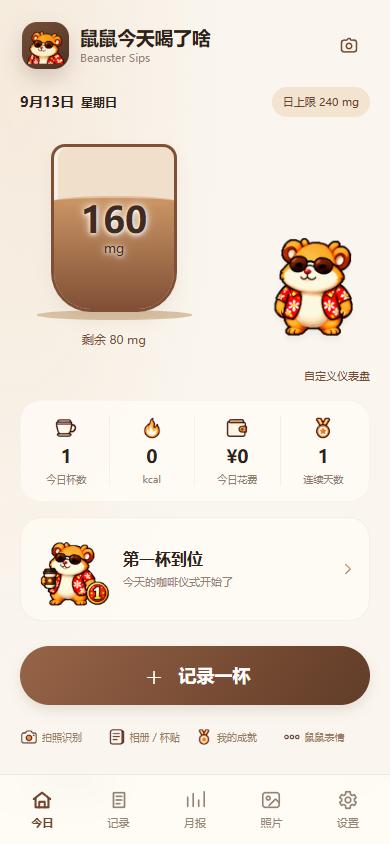
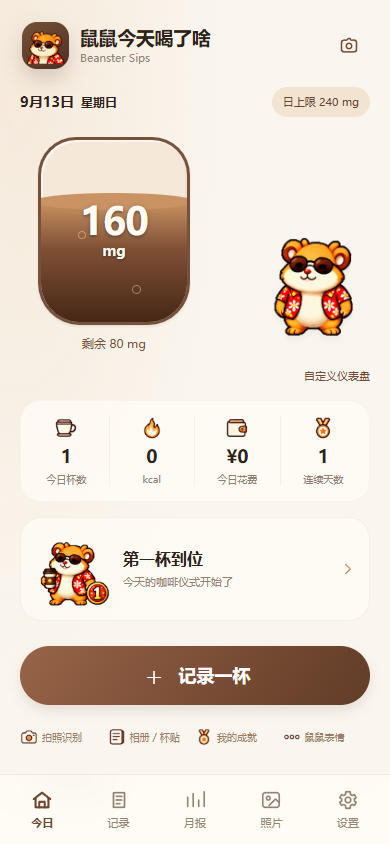
Match coffee dashboard reference with rising bubble animation

Changed region(s): [[0.0923, 0.154, 0.4923, 0.4313]]

diff --git a/app_v5.js b/app_v5.js
@@ -175,7 +175,7 @@ function metabolismReportHtml(rs,key){
 function renderAnalysis(){let ref=monthRef(),year=ref.getFullYear(),month=ref.getMonth(),mr=monthRecords(ref).sort((a,b)=>a.ts-b.ts),prevRef=new Date(year,month-1,1),prevAll=monthRecords(prevRef),daysInMonth=new Date(year,month+1,0).getDate(),today=new Date(),elapsedDays=analysisMonthOffset===0?today.getDate():daysInMonth,compareDays=elapsedDays,prev=prevAll.filter(r=>new Date(r.ts).getDate()<=compareDays),firstOffset=(new Date(year,month,1).getDay()+6)%7,monthName=`${year} 年 ${month+1} 月`;let cups=mr.length,caf=sum(mr,'caffeine'),spend=sum(mr,'price'),activeDays=uniqueDays(mr).length,overDays=uniqueDays(mr).filter(k=>sum(dayRecords(k),'caffeine')>settings.dailyLimit).length,avg=(cups/Math.max(1,elapsedDays)),delta=cups-prev.length;let typeCount={},brandCount={};mr.forEach(r=>{typeCount[r.type]=(typeCount[r.type]||0)+1;if(r.brand)brandCount[r.brand]=(brandCount[r.brand]||0)+1});let fav=Object.entries(typeCount).sort((a,b)=>b[1]-a[1])[0]?.[0]||'—',favBrand=Object.entries(brandCount).sort((a,b)=>b[1]-a[1])[0]?.[0]||'—';let cells=Array.from({length:firstOffset},()=>'<span class="month-blank"></span>');let todayKey=localKey(new Date());for(let d=1;d<=daysInMonth;d++){let date=new Date(year,month,d),key=localKey(date),rs=dayRecords(key),n=rs.length,dcaf=sum(rs,'caffeine'),over=dcaf>settings.dailyLimit,sel=(selectedAnalysisDay||((analysisMonthOffset===0)?todayKey:''))===key;cells.push(`<button class="month-day ${n?'has-cups':''} ${over?'over':''} ${sel?'selected':''}" onclick="selectAnalysisDay('${key}')"><span class="day-num">${d}</span><span class="month-stamp-wrap">${stampMarkup(n)||'<span class="no-stamp"></span>'}</span></button>`)}let fallback=analysisMonthOffset===0?todayKey:(mr.length?localKey(new Date(mr[mr.length-1].ts)):`${year}-${pad(month+1)}-01`),key=selectedAnalysisDay||fallback,selected=dayRecords(key).sort((a,b)=>a.ts-b.ts),selectedCaf=sum(selected,'caffeine'),mouse=hamsterState(selected.length,selectedCaf),selectedDate=new Date(key+'T12:00:00'),dayLabel=`${selectedDate.getMonth()+1}月${selectedDate.getDate()}日`;let compare=delta===0?(analysisMonthOffset===0?'和上月同期一样':'和上月一样'):delta>0?`比上月${analysisMonthOffset===0?'同期':''}多 ${delta} 杯`:`比上月${analysisMonthOffset===0?'同期':''}少 ${Math.abs(delta)} 杯`;
  $('analysisContent').innerHTML=`<div class="month-nav"><button onclick="setAnalysisMonth(-1)">‹</button><b>${monthName}</b><button onclick="setAnalysisMonth(1)" ${analysisMonthOffset>=0?'disabled':''}>›</button></div><div class="month-stats"><div class="month-stat primary-stat"><span>本月喝了</span><b>${cups}</b><small>杯 · ${compare}</small></div><div class="month-stat"><span>平均每天</span><b>${avg.toFixed(1)}</b><small>杯</small></div><div class="month-stat"><span>咖啡因</span><b>${Math.round(caf)}</b><small>mg</small></div><div class="month-stat"><span>本月花费</span><b>${money(spend)}</b><small>${activeDays} 天有记录</small></div></div><div class="section-title">咖啡月历 <span>杯数用印章记录</span></div><div class="card month-board"><div class="weekday-row"><span>一</span><span>二</span><span>三</span><span>四</span><span>五</span><span>六</span><span>日</span></div><div class="month-grid">${cells.join('')}</div></div><div class="card hamster-day-scene ${mouse.cls}"><div class="scene-top">${mascotSprite(mouse,true)}<div class="scene-copy"><span>${dayLabel}</span><b>${mouse.title}</b><small>${selected.length?`${selected.length} 杯 · ${Math.round(selectedCaf)} mg`:'没有咖啡记录'}</small></div><div class="scene-cups">${stampMarkup(selected.length,true)||cupsMarkup(selected.length)}</div></div>${selected.length?`<div class="day-records">${selected.map(r=>`<button onclick="editRecord('${r.id}')"><span>${pad(new Date(r.ts).getHours())}:${pad(new Date(r.ts).getMinutes())}</span><b>${esc(r.type)}</b><em>${Math.round(r.caffeine||0)} mg</em></button>`).join('')}</div>`:'<div class="empty mini-empty">今天还没有留下印章。</div>'}</div>${metabolismReportHtml(selected,key)}<div class="section-title">本月咖啡故事 <span>这个月的回顾</span></div>${monthlyStoryHtml(mr,ref)}<div class="section-title">我的咖啡画像 <span>你的常喝习惯</span></div>${coffeeProfileHtml()}<div class="section-title">常去的店 <span>按记录次数</span></div>${storeStatsHtml()}<div class="section-title">咖啡护照 <span>慢慢收集</span></div>${passportHtml()}<div class="section-title">这个月 <span>本月小结</span></div><div class="card month-summary"><div><span>最常喝</span><b>${esc(fav)}</b></div><div><span>最常选品牌</span><b>${esc(favBrand)}</b></div><div><span>超量天数</span><b>${overDays} 天</b></div><div><span>有咖啡的日子</span><b>${activeDays} 天</b></div></div>`}
 async function renderPhotos(){let rs=records.filter(r=>r.photoId||r.photoPreview||r.nativePhotoPath).sort((a,b)=>b.ts-a.ts);$('photoContent').innerHTML=rs.length?`<div class="row between" style="margin:3px 4px 12px"><div><b>${rs.length} 次照片打卡</b><div class="muted">点开查看原图</div></div><span class="pill green">照片墙</span></div><div class="photos">${rs.map(r=>{let key=r.photoId||r.id,src=nativeFileUrl(r.nativePhotoPath)||r.photoPreview||'';return `<div class="photo-tile" onclick="viewPhoto('${key}','${esc(r.type).replace(/'/g,"&#39;")} · ${fmtTs(r.ts)}')"><img src="${esc(src)}" data-photo="${esc(key)}"><span>${esc(r.type)} · ${fmtTs(r.ts)}</span></div>`}).join('')}</div>`:'<div class="card empty">还没有照片。记录咖啡时可以打开系统相机，也可以从系统相册选择。</div>';await hydratePhotos($('photoContent'))}
-function renderSettings(){let health=dataHealthText(),tpl=templates.length?templates.map(t=>`<div class="template-row"><div><b>${esc(t.name)}</b><span>${esc(t.productName||t.brand||t.type)} · ${t.productName&&t.type?esc(t.type)+' · ':''}${t.size}ml${t.caf?` · ${Math.round(t.caf)} mg`:''}${t.price?` · ${money(t.price)}`:''}</span></div><button onclick="deleteTemplate('${t.id}')">删除</button></div>`).join(''):'<div class="empty mini-empty">还没有保存常喝咖啡。记录时可以把当前这杯保存下来。</div>';$('settingsContent').innerHTML=`<div class="section-title">日常设置</div><div class="card"><div class="setting"><div><b>每日咖啡因上限</b></div><input id="sLimit" type="number" value="${settings.dailyLimit}" onchange="saveSettings()"></div><div class="setting"><div><b>月度咖啡预算</b></div><input id="sBudget" type="number" value="${settings.monthlyBudget}" onchange="saveSettings()"></div><div class="setting"><div><b>目标入睡时间</b><div class="tiny">你通常准备睡觉的时间</div></div><input id="sSleep" type="time" value="${settings.sleepTime||'23:30'}" onchange="saveSettings()"></div><div class="setting"><div><b>咖啡因半衰期</b><div class="tiny">不确定可以保持 5 小时</div></div><input id="sHalf" type="number" min="1.5" max="12" step="0.5" value="${settings.caffeineHalfLife||5}" onchange="saveSettings()"></div><div class="setting"><div><b>睡前目标残留</b><div class="tiny">睡前希望咖啡因降到多少</div></div><input id="sResidual" type="number" min="0" max="200" step="5" value="${settings.sleepResidualTarget??50}" onchange="saveSettings()"></div><div class="setting"><div><b>建议提前停止</b></div><input id="sCutoff" type="number" min="4" max="12" step="0.5" value="${settings.cutoffHours||9}" onchange="saveSettings()"></div><div class="setting"><div><b>晚间提醒时间</b></div><input id="sLate" type="number" min="0" max="23" value="${settings.lateHour}" onchange="saveSettings()"></div><div class="setting"><div><b>默认容量</b></div><input id="sSize" type="number" value="${settings.defaultSize}" onchange="saveSettings()"></div><div class="setting"><div><b>照片质量</b><div class="tiny">保留原图会占用更多空间</div></div><select id="sPhotoQuality" onchange="saveSettings()"><option value="original" ${settings.photoQuality!=='compressed'?'selected':''}>保留原图</option><option value="compressed" ${settings.photoQuality==='compressed'?'selected':''}>节省空间</option></select></div><div class="setting"><div><b>咖啡玩家模式</b><div class="tiny">记录豆子、处理法和粉水比</div></div><select id="sPro" onchange="saveSettings()"><option value="0" ${!settings.coffeeProMode?'selected':''}>关闭</option><option value="1" ${settings.coffeeProMode?'selected':''}>开启</option></select></div><div class="setting"><div><b>系统通知</b></div><select id="sNotif" onchange="saveSettings()"><option value="1" ${settings.systemNotifications?'selected':''}>开启</option><option value="0" ${!settings.systemNotifications?'selected':''}>关闭</option></select></div><div class="setting"><div><b>货币符号</b></div><input id="sCurr" value="${esc(settings.currency)}" onchange="saveSettings()"></div></div><div class="section-title">我的咖啡 <span>${templates.length} 个</span></div><div class="card template-settings">${tpl}</div><div class="section-title">备份与恢复</div><div class="card backup-card"><button class="primary" onclick="exportFullBackup('original')">保存完整备份</button><p>记录、设置和照片一起保存。</p><button class="ghost" style="width:100%" onclick="exportFullBackup('compact')">保存轻量备份</button><div class="backup-divider"></div><label class="ghost backup-import">导入备份<input id="restoreFile" type="file" accept=".beanster,.json,application/json,application/octet-stream" onchange="restoreBackup(this.files[0])"></label>${localStorage.getItem(SNAPKEY)?'<div style="height:8px"></div><button class="ghost" style="width:100%" onclick="undoLastImport()">撤销上次导入</button>':''}<div class="backup-divider"></div><button class="ghost" style="width:100%" onclick="exportBackup()">导出记录 JSON</button><div style="height:8px"></div><button class="ghost" style="width:100%" onclick="exportCsv()">导出表格</button></div><div class="section-title">最近恢复点</div><div class="card">${restorePointsHtml()}</div><div class="section-title">记录与照片</div><div class="card data-health ${health.ok?'ok':'warn'}"><b>${health.ok?'✓ 状态正常':'有内容需要确认'}</b><span>${health.text}</span><small>${health.detail}</small><div style="height:10px"></div><div class="row"><button class="ghost grow" onclick="showDataCheck()">检查记录</button><button class="ghost grow" onclick="checkPhotos()">检查照片</button></div></div><div class="section-title">关于</div><div class="card"><div class="about"><div class="logo"><img src="icon.png" alt="鼠鼠今天喝了啥"></div><div><b>鼠鼠今天喝了啥</b><span>Beanster Sips · V18.3</span></div></div></div>`}
+function renderSettings(){let health=dataHealthText(),tpl=templates.length?templates.map(t=>`<div class="template-row"><div><b>${esc(t.name)}</b><span>${esc(t.productName||t.brand||t.type)} · ${t.productName&&t.type?esc(t.type)+' · ':''}${t.size}ml${t.caf?` · ${Math.round(t.caf)} mg`:''}${t.price?` · ${money(t.price)}`:''}</span></div><button onclick="deleteTemplate('${t.id}')">删除</button></div>`).join(''):'<div class="empty mini-empty">还没有保存常喝咖啡。记录时可以把当前这杯保存下来。</div>';$('settingsContent').innerHTML=`<div class="section-title">日常设置</div><div class="card"><div class="setting"><div><b>每日咖啡因上限</b></div><input id="sLimit" type="number" value="${settings.dailyLimit}" onchange="saveSettings()"></div><div class="setting"><div><b>月度咖啡预算</b></div><input id="sBudget" type="number" value="${settings.monthlyBudget}" onchange="saveSettings()"></div><div class="setting"><div><b>目标入睡时间</b><div class="tiny">你通常准备睡觉的时间</div></div><input id="sSleep" type="time" value="${settings.sleepTime||'23:30'}" onchange="saveSettings()"></div><div class="setting"><div><b>咖啡因半衰期</b><div class="tiny">不确定可以保持 5 小时</div></div><input id="sHalf" type="number" min="1.5" max="12" step="0.5" value="${settings.caffeineHalfLife||5}" onchange="saveSettings()"></div><div class="setting"><div><b>睡前目标残留</b><div class="tiny">睡前希望咖啡因降到多少</div></div><input id="sResidual" type="number" min="0" max="200" step="5" value="${settings.sleepResidualTarget??50}" onchange="saveSettings()"></div><div class="setting"><div><b>建议提前停止</b></div><input id="sCutoff" type="number" min="4" max="12" step="0.5" value="${settings.cutoffHours||9}" onchange="saveSettings()"></div><div class="setting"><div><b>晚间提醒时间</b></div><input id="sLate" type="number" min="0" max="23" value="${settings.lateHour}" onchange="saveSettings()"></div><div class="setting"><div><b>默认容量</b></div><input id="sSize" type="number" value="${settings.defaultSize}" onchange="saveSettings()"></div><div class="setting"><div><b>照片质量</b><div class="tiny">保留原图会占用更多空间</div></div><select id="sPhotoQuality" onchange="saveSettings()"><option value="original" ${settings.photoQuality!=='compressed'?'selected':''}>保留原图</option><option value="compressed" ${settings.photoQuality==='compressed'?'selected':''}>节省空间</option></select></div><div class="setting"><div><b>咖啡玩家模式</b><div class="tiny">记录豆子、处理法和粉水比</div></div><select id="sPro" onchange="saveSettings()"><option value="0" ${!settings.coffeeProMode?'selected':''}>关闭</option><option value="1" ${settings.coffeeProMode?'selected':''}>开启</option></select></div><div class="setting"><div><b>系统通知</b></div><select id="sNotif" onchange="saveSettings()"><option value="1" ${settings.systemNotifications?'selected':''}>开启</option><option value="0" ${!settings.systemNotifications?'selected':''}>关闭</option></select></div><div class="setting"><div><b>货币符号</b></div><input id="sCurr" value="${esc(settings.currency)}" onchange="saveSettings()"></div></div><div class="section-title">我的咖啡 <span>${templates.length} 个</span></div><div class="card template-settings">${tpl}</div><div class="section-title">备份与恢复</div><div class="card backup-card"><button class="primary" onclick="exportFullBackup('original')">保存完整备份</button><p>记录、设置和照片一起保存。</p><button class="ghost" style="width:100%" onclick="exportFullBackup('compact')">保存轻量备份</button><div class="backup-divider"></div><label class="ghost backup-import">导入备份<input id="restoreFile" type="file" accept=".beanster,.json,application/json,application/octet-stream" onchange="restoreBackup(this.files[0])"></label>${localStorage.getItem(SNAPKEY)?'<div style="height:8px"></div><button class="ghost" style="width:100%" onclick="undoLastImport()">撤销上次导入</button>':''}<div class="backup-divider"></div><button class="ghost" style="width:100%" onclick="exportBackup()">导出记录 JSON</button><div style="height:8px"></div><button class="ghost" style="width:100%" onclick="exportCsv()">导出表格</button></div><div class="section-title">最近恢复点</div><div class="card">${restorePointsHtml()}</div><div class="section-title">记录与照片</div><div class="card data-health ${health.ok?'ok':'warn'}"><b>${health.ok?'✓ 状态正常':'有内容需要确认'}</b><span>${health.text}</span><small>${health.detail}</small><div style="height:10px"></div><div class="row"><button class="ghost grow" onclick="showDataCheck()">检查记录</button><button class="ghost grow" onclick="checkPhotos()">检查照片</button></div></div><div class="section-title">关于</div><div class="card"><div class="about"><div class="logo"><img src="icon.png" alt="鼠鼠今天喝了啥"></div><div><b>鼠鼠今天喝了啥</b><span>Beanster Sips · V18.3.1</span></div></div></div>`}
 function renderAll(){renderToday();renderRecords();renderAnalysis();renderPhotos();if($('settings').classList.contains('active'))renderSettings()}
 function openAdd(){let n=new Date();editingId='';draftExistingPhotoId='';$('modalTitle').textContent='记录一杯咖啡';$('modalSub').textContent='拍照、相册或快速添加';$('saveBtnText').textContent='保存这杯咖啡';$('fDate').value=localKey(n);$('fTime').value=pad(n.getHours())+':'+pad(n.getMinutes());$('fProductName').value='';$('fSize').value=settings.defaultSize;$('fPrice').value=0;$('fBrand').value='';$('fStore').value='';$('fNote').value='';$('fTemp').value='热';$('fShots').value=2;if($('fScene'))$('fScene').value='';for(let id of ['fBeanOrigin','fProcess','fRoast','fBrewRatio'])if($(id))$(id).value='';$('proFields')?.classList.toggle('show',!!settings.coffeeProMode);draftPhoto=null;draftSourceAttachment=null;draftSourceKind='';draftKeepSource=false;draftSmartKind='';draftReadKey='';draftReadText='';draftEstimated=false;draftConfidence=0;draftCafLow=0;draftCafHigh=0;draftCafSource='';draftProductSource='';currentRating=4;renderRating();$('fCamera').value='';$('fGallery').value='';$('photoBox').classList.remove('has-photo');$('photoBox').innerHTML='<div class="photo-placeholder">'+ICONS.image+'<b>打开系统相机，或从系统相册选择</b><div class="tiny" style="margin-top:4px">也可以从相册选择</div></div>';$('recognition').classList.remove('show');$('recognition').innerHTML='';$('addModal').classList.add('show');$('fType').value='美式';applyCatalog('美式',true);renderQuickPresets();renderWhatIf()}
 async function editRecord(id){let r=records.find(x=>x.id===id);if(!r)return;openAdd();editingId=id;draftExistingPhotoId=r.photoId||'';$('modalTitle').textContent='修改咖啡记录';$('modalSub').textContent='修改这杯咖啡';$('saveBtnText').textContent='保存修改';let d=new Date(r.ts);$('fDate').value=localKey(d);$('fTime').value=pad(d.getHours())+':'+pad(d.getMinutes());$('fProductName').value=r.productName||'';$('fType').value=r.type in CATALOG?r.type:canonicalTypeForName(r.productName||r.type,'美式');$('fTemp').value=r.temp||'热';$('fSize').value=r.size||settings.defaultSize;$('fShots').value=r.shots??(CATALOG[$('fType').value]?.shots||0);$('fPrice').value=r.price||0;$('fCaf').value=r.caffeine||0;$('fCal').value=r.calories||0;$('fBrand').value=r.brand||'';$('fStore').value=r.store||'';$('fNote').value=r.note||'';if($('fScene'))$('fScene').value=r.scene||'';if($('fBeanOrigin'))$('fBeanOrigin').value=r.beanOrigin||'';if($('fProcess'))$('fProcess').value=r.process||'';if($('fRoast'))$('fRoast').value=r.roast||'';if($('fBrewRatio'))$('fBrewRatio').value=r.brewRatio||'';currentRating=r.rating||0;draftEstimated=!!r.estimated;draftConfidence=Number(r.confidence)||0;draftCafLow=Number(r.cafLow)||0;draftCafHigh=Number(r.cafHigh)||0;draftCafSource=r.cafSource||'';draftProductSource=r.productSource||'';draftSourceKind=r.infoSourceKind||'';draftKeepSource=!!r.sourceId;draftSourceAttachment=null;renderRating();renderWhatIf();if(r.photoId||r.photoPreview||r.nativePhotoPath){try{let p=r.photoId?await getPhoto(r.photoId):'',src=nativeFileUrl(r.nativePhotoPath)||photoFullUrl(p)||r.photoPreview||'';if(src){$('photoBox').classList.add('has-photo');$('photoBox').innerHTML=`<img src="${src}" alt="咖啡照片">`}}catch(e){if(r.photoPreview){$('photoBox').classList.add('has-photo');$('photoBox').innerHTML=`<img src="${r.photoPreview}" alt="咖啡照片">`}}}$('recognition').innerHTML=`<div class="rec-title">正在编辑</div><div class="estimate-note">换图片后会重新读取。</div>${r.sourceId?`<div class="order-actions"><button onclick="viewInfoSource('${r.id}')">查看${sourceLabel(r.infoSourceKind)||'信息图片'}</button></div>`:''}`;$('recognition').classList.add('show')}
@@ -366,14 +366,14 @@ async function delRecord(id){if(!confirm('删除这条咖啡记录？'))return;l
 function saveSettings(){settings.dailyLimit=Math.max(1,Number($('sLimit').value)||400);settings.monthlyBudget=Math.max(1,Number($('sBudget').value)||500);settings.lateHour=clamp(Number($('sLate').value)||16,0,23);settings.sleepTime=$('sSleep')?.value||'23:30';settings.caffeineHalfLife=clamp(Number($('sHalf')?.value)||5,1.5,12);settings.sleepResidualTarget=clamp(Number($('sResidual')?.value)||0,0,200);settings.cutoffHours=clamp(Number($('sCutoff')?.value)||9,4,12);settings.defaultSize=Math.max(30,Number($('sSize').value)||350);settings.estimateStrength=$('sStrength')?clamp(Number($('sStrength').value)||1,.5,2):(settings.estimateStrength||1);settings.systemNotifications=$('sNotif').value==='1';settings.currency=$('sCurr').value||'¥';settings.photoQuality=$('sPhotoQuality')?.value==='compressed'?'compressed':'original';settings.coffeeProMode=$('sPro')?.value==='1';persist();$('proFields')?.classList.toggle('show',!!settings.coffeeProMode);renderAll();notify('设置已保存')}
 function csvEsc(v){let s=String(v??'');return /[",\n]/.test(s)?'"'+s.replace(/"/g,'""')+'"':s}
 function exportFile(data,mime,name){location.href=`coffeelog://export?mime=${encodeURIComponent(mime)}&name=${encodeURIComponent(name)}&data=${encodeURIComponent(data)}`}
-function exportCsv(){let cols=['日期','时间','饮品名称','咖啡类型','冷热','场景','shot数','咖啡因_mg','咖啡因下限_mg','咖啡因上限_mg','估算依据','热量_kcal','金额','货币','容量_ml','品牌','门店','评分','豆子_产地','处理法','烘焙度','粉水比','备注','有照片'];let rows=records.slice().sort((a,b)=>a.ts-b.ts).map(r=>{let d=new Date(r.ts);return [localKey(d),pad(d.getHours())+':'+pad(d.getMinutes()),r.productName||'',r.type,r.temp||'',r.scene||'',r.shots??'',r.caffeine,r.cafLow||'',r.cafHigh||'',r.cafSource||'',r.calories||0,r.price,settings.currency,r.size||'',r.brand||'',r.store||'',r.rating||'',r.beanOrigin||'',r.process||'',r.roast||'',r.brewRatio||'',r.note||'',(r.photoId||r.photoPreview||r.nativePhotoPath)?'是':'否']});let csv='\ufeff'+[cols,...rows].map(row=>row.map(csvEsc).join(',')).join('\r\n');exportFile(csv,'text/csv','Beanster-Sips-V18.3-'+localKey(new Date())+'.csv')}
-function exportBackup(){let obj={version:18,schema:15,exportedAt:new Date().toISOString(),settings,templates,readMemory,records:records.map(r=>({...r,nativePhotoPath:'',photoId:'',sourceId:''}))};exportFile(JSON.stringify(obj,null,2),'application/json','Beanster-Sips-V18.3-'+localKey(new Date())+'.json')}
+function exportCsv(){let cols=['日期','时间','饮品名称','咖啡类型','冷热','场景','shot数','咖啡因_mg','咖啡因下限_mg','咖啡因上限_mg','估算依据','热量_kcal','金额','货币','容量_ml','品牌','门店','评分','豆子_产地','处理法','烘焙度','粉水比','备注','有照片'];let rows=records.slice().sort((a,b)=>a.ts-b.ts).map(r=>{let d=new Date(r.ts);return [localKey(d),pad(d.getHours())+':'+pad(d.getMinutes()),r.productName||'',r.type,r.temp||'',r.scene||'',r.shots??'',r.caffeine,r.cafLow||'',r.cafHigh||'',r.cafSource||'',r.calories||0,r.price,settings.currency,r.size||'',r.brand||'',r.store||'',r.rating||'',r.beanOrigin||'',r.process||'',r.roast||'',r.brewRatio||'',r.note||'',(r.photoId||r.photoPreview||r.nativePhotoPath)?'是':'否']});let csv='\ufeff'+[cols,...rows].map(row=>row.map(csvEsc).join(',')).join('\r\n');exportFile(csv,'text/csv','Beanster-Sips-V18.3.1-'+localKey(new Date())+'.csv')}
+function exportBackup(){let obj={version:18,schema:15,exportedAt:new Date().toISOString(),settings,templates,readMemory,records:records.map(r=>({...r,nativePhotoPath:'',photoId:'',sourceId:''}))};exportFile(JSON.stringify(obj,null,2),'application/json','Beanster-Sips-V18.3.1-'+localKey(new Date())+'.json')}
 function blobToDataUrl(blob){return new Promise((res,rej)=>{let rd=new FileReader();rd.onload=()=>res(String(rd.result||''));rd.onerror=()=>rej(rd.error);rd.readAsDataURL(blob)})}
 function xhrFileBlob(url){return new Promise((res,rej)=>{try{let x=new XMLHttpRequest();x.open('GET',url,true);x.responseType='blob';x.onload=()=>x.response?res(x.response):rej(new Error('empty'));x.onerror=()=>rej(new Error('xhr'));x.send()}catch(e){rej(e)}})}
 async function backupPhotoData(r,mode='original'){let p='';try{p=r.photoId?await getPhoto(r.photoId):''}catch(e){}if(mode==='original'&&r.nativePhotoPath){let blob=null,url=encodeURI(nativeFileUrl(r.nativePhotoPath));try{let resp=await fetch(url);if(resp.ok||resp.status===0)blob=await resp.blob()}catch(e){}if(!blob)try{blob=await xhrFileBlob(url)}catch(e){}if(blob){let data=await blobToDataUrl(blob);if(data.startsWith('data:'))return {data,mime:blob.type||r.photoMime||'image/jpeg',quality:'original',display:photoThumb(p)||r.photoPreview||'',width:p?.width||0,height:p?.height||0}}}let src=mode==='compact'?(photoThumb(p)||r.photoPreview||''):(photoLegacyFull(p)||photoThumb(p)||r.photoPreview||'');let parts=dataUrlParts(src);return parts?{data:src,mime:parts.mime||r.photoMime||'image/jpeg',quality:mode==='compact'?'display':'fallback-highres',display:photoThumb(p)||r.photoPreview||src,width:p?.width||0,height:p?.height||0}:null}
 function bytesChunkB64(bytes){let s='';for(let i=0;i<bytes.length;i++)s+=String.fromCharCode(bytes[i]);return btoa(s)}
 function nativeBytesSave(bytes,name,mime){try{prompt('sipsqueak://imagebegin','');let step=6000;for(let i=0;i<bytes.length;i+=step){let b64=bytesChunkB64(bytes.subarray(i,Math.min(bytes.length,i+step)));prompt(`sipsqueak://imagechunk?data=${encodeURIComponent(b64)}`,'')}prompt(`sipsqueak://imagefinish?name=${encodeURIComponent(name)}&mime=${encodeURIComponent(mime||'application/octet-stream')}`,'');return true}catch(e){return false}}
-async function exportFullBackup(mode='original'){if(!records.length&&!templates.length)return notify('还没有需要备份的数据',true);notify(mode==='original'?'正在整理记录和原图…':'正在整理轻量备份…');let photos={},sources={},withPhoto=records.filter(r=>r.photoId||r.photoPreview||r.nativePhotoPath);for(let r of withPhoto){try{let ph=await backupPhotoData(r,mode);if(ph)photos[r.id]=ph}catch(e){}}for(let r of records.filter(r=>r.sourceId)){try{let sp=await getPhoto(r.sourceId),src=mode==='compact'?(photoThumb(sp)||r.sourcePreview||''):(photoLegacyFull(sp)||photoThumb(sp)||r.sourcePreview||''),parts=dataUrlParts(src);if(parts)sources[r.id]={data:src,mime:parts.mime||r.sourceMime||'image/jpeg',quality:'info-source',display:photoThumb(sp)||r.sourcePreview||''}}catch(e){}}let pack={format:'beanster-full',schema:15,appVersion:'18.3',exportedAt:new Date().toISOString(),photoMode:mode,settings,templates,readMemory,records:records.map(r=>({...r,nativePhotoPath:'',photoId:photos[r.id]?r.id:'',sourceId:sources[r.id]?r.id+':source':'',photoPreview:r.photoPreview||'',sourcePreview:r.sourcePreview||''})),photos,sources};let json=JSON.stringify(pack),bytes=new TextEncoder().encode(json),name=`Beanster-${mode==='original'?'Full':'Lite'}-${localKey(new Date())}.beanster`;notify(`备份已整理：${records.length} 条记录 / ${Object.keys(photos).length} 张照片`);if(!nativeBytesSave(bytes,name,'application/octet-stream'))notify('无法打开系统保存面板',true)}
+async function exportFullBackup(mode='original'){if(!records.length&&!templates.length)return notify('还没有需要备份的数据',true);notify(mode==='original'?'正在整理记录和原图…':'正在整理轻量备份…');let photos={},sources={},withPhoto=records.filter(r=>r.photoId||r.photoPreview||r.nativePhotoPath);for(let r of withPhoto){try{let ph=await backupPhotoData(r,mode);if(ph)photos[r.id]=ph}catch(e){}}for(let r of records.filter(r=>r.sourceId)){try{let sp=await getPhoto(r.sourceId),src=mode==='compact'?(photoThumb(sp)||r.sourcePreview||''):(photoLegacyFull(sp)||photoThumb(sp)||r.sourcePreview||''),parts=dataUrlParts(src);if(parts)sources[r.id]={data:src,mime:parts.mime||r.sourceMime||'image/jpeg',quality:'info-source',display:photoThumb(sp)||r.sourcePreview||''}}catch(e){}}let pack={format:'beanster-full',schema:15,appVersion:'18.3.1',exportedAt:new Date().toISOString(),photoMode:mode,settings,templates,readMemory,records:records.map(r=>({...r,nativePhotoPath:'',photoId:photos[r.id]?r.id:'',sourceId:sources[r.id]?r.id+':source':'',photoPreview:r.photoPreview||'',sourcePreview:r.sourcePreview||''})),photos,sources};let json=JSON.stringify(pack),bytes=new TextEncoder().encode(json),name=`Beanster-${mode==='original'?'Full':'Lite'}-${localKey(new Date())}.beanster`;notify(`备份已整理：${records.length} 条记录 / ${Object.keys(photos).length} 张照片`);if(!nativeBytesSave(bytes,name,'application/octet-stream'))notify('无法打开系统保存面板',true)}
 function nativeRestorePhotoData(dataUrl,name){let parts=dataUrlParts(dataUrl);if(!parts)return '';try{prompt('sipsqueak://imagebegin','');let chunk=8192;for(let i=0;i<parts.data.length;i+=chunk)prompt(`sipsqueak://imagechunk?data=${encodeURIComponent(parts.data.slice(i,i+chunk))}`,'');return String(prompt(`sipsqueak://restorefinish?name=${encodeURIComponent(name)}`,'')||'')}catch(e){return ''}}
 async function restoredMediaFromDataUrl(dataUrl,nativePath,quality='restored',fallbackDisplay=''){let im=new Image();await new Promise(res=>{im.onload=res;im.onerror=res;im.src=dataUrl});if(!im.width){let d=fallbackDisplay||dataUrl;return {full:nativePath?'':dataUrl,display:d,thumb:d,preview:d,width:0,height:0,qualityMode:quality}}let d=makePhotoVersions(im);return {full:nativePath?'':dataUrl,display:d.display,thumb:d.thumb,preview:d.preview,width:im.width,height:im.height,qualityMode:quality,createdAt:Date.now()}}
 let pendingImport=null;

diff --git a/ui_upgrade.css b/ui_upgrade.css
@@ -19,3 +19,21 @@ html{background:#eae1d5}body{max-width:480px;margin:0 auto;min-height:100dvh;bac
 .u-form-companion,.u-report-companion{display:flex;align-items:center;gap:12px;color:var(--muted);font-size:13px;margin:0 0 16px}.u-form-companion img,.u-report-companion img{width:64px;height:64px;object-fit:contain}.u-companion-avatar{cursor:pointer;object-fit:contain!important}.u-unsaved{padding:18px}.u-unsaved .primary{width:100%}body:not([data-page="today"]) header .logo{visibility:hidden}
 /* V18.3 dashboard variants */
 .u-hero{--dash-main:#805036;--dash-light:#c99363}.u-hero #coffeeRing stop:first-child{stop-color:var(--dash-light)}.u-hero #coffeeRing stop:last-child{stop-color:var(--dash-main)}.u-dashboard-customize{display:block;margin:-8px 0 8px auto;font-size:11px;min-height:32px}.u-no-mascot .u-gauge{margin:auto}.u-dashboard-cup{display:block;width:208px;padding:12px 10px 0;border:0;background:none;color:var(--dash-main);position:relative;height:245px;cursor:pointer}.u-cup-glass{position:relative;width:126px;height:168px;margin:0 auto;border:3px solid var(--dash-main);border-radius:14px 14px 40px 40px;background:#f0dfcb;overflow:hidden;box-shadow:inset 4px 0 0 #fff8,0 8px 15px #593c1c12}.u-cup-liquid{position:absolute;bottom:0;left:0;right:0;background:linear-gradient(var(--dash-light),var(--dash-main));transform-origin:bottom}.u-cup-surface{position:absolute;top:-5px;left:-2%;width:104%;height:11px;background:var(--dash-light);border-radius:50%;border-top:2px solid #fff6}.u-cup-reading{position:absolute;inset:0;display:flex;flex-direction:column;justify-content:center;align-items:center;color:#3f2b20;text-shadow:0 1px 4px #fff,0 0 10px #fff}.u-cup-reading b{font-size:36px;line-height:1.1}.u-cup-reading span{font-size:13px}.u-cup-saucer{width:155px;height:10px;border-radius:50%;background:#d8c1a4;margin:-2px auto 0}.u-dashboard-cup p{font-size:12px;margin:12px 0}.u-cup-bubble{position:absolute;border:1px solid #fff9;border-radius:50%;width:7px;height:7px;bottom:6px;opacity:0}.b-one{left:22%}.b-two{left:52%;width:5px;height:5px}.b-three{left:76%;width:9px;height:9px}.u-pouring .u-cup-liquid{animation:dashPour 1.2s ease-out 1}.u-pouring .u-cup-bubble{animation:dashBubble 1.8s ease-out 1}.u-pouring .b-two{animation-delay:.15s}.u-pouring .b-three{animation-delay:.3s}@keyframes dashPour{from{transform:scaleY(0)}to{transform:scaleY(1)}}@keyframes dashBubble{0%,20%{transform:translateY(0);opacity:0}35%{opacity:.7}100%{transform:translateY(-85px);opacity:0}}.u-dashboard-number,.u-dashboard-bar{width:220px;padding:45px 12px 0;color:var(--dash-main)}.u-dashboard-number>small,.u-dashboard-bar>small{display:block;font-size:12px;color:#9c836c;margin-bottom:14px}.u-dashboard-number>strong,.u-dashboard-bar>strong{display:block;font-size:52px;line-height:1.1;letter-spacing:-2px}.u-dashboard-number strong small,.u-dashboard-bar strong small{font-size:14px;letter-spacing:0}.u-dashboard-number>span,.u-dashboard-bar>span{display:block;font-size:12px;margin-top:14px;color:#8e7660}.u-dashboard-number em{display:block;font-size:11px;font-style:normal;margin-top:14px;color:#a08d77}.u-dashboard-bar{padding-top:30px}.u-dashboard-bar>strong{font-size:42px}.u-dash-track{height:13px;background:#e9dccb;border-radius:20px;margin-top:22px;overflow:hidden}.u-dash-track i{display:block;height:100%;background:linear-gradient(90deg,var(--dash-light),var(--dash-main));border-radius:20px}.u-dash-scale{display:flex;justify-content:space-between;font-size:9px;margin-top:8px;color:#a18d78}.u-no-mascot .u-dashboard-cup,.u-no-mascot .u-dashboard-number,.u-no-mascot .u-dashboard-bar{margin:auto}.u-dashboard-options{display:grid;grid-template-columns:1fr 1fr;gap:12px}.u-dashboard-option{min-height:155px;border:1px solid #eadccc;background:#fcf6ed;border-radius:20px;display:flex;align-items:center;justify-content:center;gap:16px;flex-direction:column;color:#765237}.u-dashboard-option.selected{border:2px solid #946342;background:#f4e6d5}.u-dashboard-option b{font-size:13px}.u-mini-ring{display:block;width:63px;height:63px;border-radius:50%;background:conic-gradient(#996844 0 65%,#e1ccb4 65% 85%,transparent 85%);mask:radial-gradient(transparent 55%,#000 56%)}.u-mini-cup{display:block;width:45px;height:63px;border:2px solid #805036;border-radius:8px 8px 15px 15px;background:linear-gradient(to top,#a9754c 60%,#efe0cd 60%)}.u-mini-number{font-size:32px;color:#805036}.u-mini-number small{font-size:11px}.u-mini-bar{display:block;width:95px;height:12px;border-radius:12px;background:linear-gradient(90deg,#9d6e49 65%,#e5d4bc 65%)}.u-dashboard-prefs h3{font-size:14px;margin:24px 0 12px}.u-dashboard-colors{display:flex;gap:8px;flex-wrap:wrap}.u-dashboard-colors button{background:#faf2e6;border:1px solid #e6d3b9;border-radius:14px;padding:10px;color:#76583a;font-size:12px}.u-dashboard-colors i{display:inline-block;width:12px;height:12px;border-radius:50%;background:var(--swatch);margin-right:5px}.u-dashboard-prefs label{display:flex;align-items:center;gap:8px;margin:24px 0;font-size:14px}.u-dashboard-prefs p{font-size:12px;line-height:1.7;color:#9b8066}.u-dashboard-prefs>.primary{width:100%;margin-top:12px}.u-native-vision-action{min-height:38px}@media(prefers-reduced-motion:reduce){.u-pouring *{animation:none!important}}@media(max-width:350px){.u-dashboard-number,.u-dashboard-bar{width:185px}.u-dashboard-cup{width:180px}}
+/* V18.3.1: reference-style rounded coffee tank and visible rising bubbles. */
+.u-dashboard-cup{width:208px;padding-top:8px}
+.u-cup-glass{width:152px;height:188px;border:3px solid #76523d;border-radius:38px 38px 42px 42px;background:#f6e8d9;box-shadow:inset 2px 2px 0 #fff9,inset -2px -2px 0 #e6d1b766,0 2px 2px #66422b18}
+.u-cup-liquid{background:linear-gradient(180deg,var(--dash-light) 0%,var(--dash-main) 40%,#452716 100%)}
+.u-cup-surface{top:-7px;left:-5%;width:110%;height:17px;border:0;background:var(--dash-light);box-shadow:0 5px 0 #c28a5940,0 9px 0 #b77c4520}
+.u-cup-reading{color:#fffcf4;text-shadow:0 2px 3px #402b2b80,0 0 5px #533c3344;padding-top:0}
+.u-cup-reading b{font-size:38px;font-weight:800;letter-spacing:-1px;line-height:1.04}
+.u-cup-reading span{font-size:14px;font-weight:750;margin-top:2px}
+.u-cup-saucer{display:none}.u-dashboard-cup p{margin-top:11px}
+.u-cup-bubble{width:8px;height:8px;border:1.5px solid #f7d7abbd;box-shadow:0 0 1px #fbe6c887;opacity:.6;bottom:26%}
+.u-cup-bubble.b-one{left:25%;bottom:68%}.u-cup-bubble.b-two{left:62%;bottom:23%;width:9px;height:9px}.u-cup-bubble.b-three{left:43%;bottom:8%;width:5px;height:5px;opacity:0}
+.u-pouring .u-cup-bubble{animation:dashReferenceBubble 1.65s ease-in-out 1 both}.u-pouring .b-one{animation-delay:.1s}.u-pouring .b-two{animation-delay:.3s}.u-pouring .b-three{animation-delay:.4s}
+.u-pouring .u-cup-surface{animation:dashReferenceWave 2.05s ease-in-out 1}
+@keyframes dashReferenceBubble{0%{bottom:3%;transform:translateX(0) scale(.65);opacity:0}22%{opacity:.8}55%{transform:translateX(3px) scale(.95);opacity:.7}85%{opacity:.55}100%{bottom:96%;transform:translateX(-2px) scale(1.12);opacity:0}}
+@keyframes dashReferenceWave{0%,100%{transform:translateX(0) scaleY(1)}25%,70%{transform:translateX(3px) scaleY(.8)}45%,85%{transform:translateX(-3px) scaleY(1.12)}}
+.u-mini-cup{width:49px;height:62px;border-color:#76523d;border-radius:14px 14px 16px 16px;background:linear-gradient(to top,#634027 0%,#b47c51 44%,#f6e8d9 45%)}
+@media(max-width:350px){.u-dashboard-cup{width:180px}.u-cup-glass{width:142px;height:182px}}
+@media(prefers-reduced-motion:reduce){.u-pouring .u-cup-bubble,.u-pouring .u-cup-liquid,.u-pouring .u-cup-surface{animation:none!important}}

diff --git a/ui_upgrade.js b/ui_upgrade.js
@@ -186,7 +186,7 @@ closeAdd=function(){UI.legacy.closeAdd();if(!document.querySelector('.u-overlay'
 applyCatalog=function(...args){UI.legacy.applyCatalog(...args);UI.syncForm()};
 renderWhatIf=function(){UI.legacy.renderWhatIf();UI.syncForm()};
 saveRecord=async function(){if(UI.saving)return;const ts=new Date($('fDate').value+'T'+($('fTime').value||'12:00')+':00').getTime();if(!Number.isFinite(ts))return notify('请填写有效的日期和时间',true);for(const id of ['fSize','fShots','fCaf','fCal','fPrice']){if(!$(id).checkValidity()){ $('uExtraDetails').open=true;$(id).reportValidity();return }}UI.saving=true;$('uSave').disabled=true;try{await UI.legacy.saveRecord()}finally{UI.saving=false;$('uSave').disabled=false}};
-renderSettings=function(){UI.legacy.renderSettings();$('settingsContent').insertAdjacentHTML('afterbegin',`<button class="u-achievement-teaser" onclick="UI.achievements()">${UI.art('achievement_month')}<span><b>我的成就</b><small>每一杯，都有自己的纪念</small></span>${UI.arrow()}</button>`);$('settingsContent').querySelector('.about span').textContent='Beanster Sips · V18.3'};
+renderSettings=function(){UI.legacy.renderSettings();$('settingsContent').insertAdjacentHTML('afterbegin',`<button class="u-achievement-teaser" onclick="UI.achievements()">${UI.art('achievement_month')}<span><b>我的成就</b><small>每一杯，都有自己的纪念</small></span>${UI.arrow()}</button>`);$('settingsContent').querySelector('.about span').textContent='Beanster Sips · V18.3.1'};
 renderPhotos=async function(){await UI.legacy.renderPhotos();if(!records.some(r=>r.photoId||r.photoPreview||r.nativePhotoPath))$('photoContent').innerHTML=`<div class="u-empty u-photo-empty">${UI.art('empty_no_coffee')}<b>把咖啡时光，留在这里。</b><span>记录时添加照片，慢慢积攒你的咖啡相册。</span><button class="primary" onclick="openSmartAdd('camera')">${UI.icon('camera')}拍下第一杯</button></div>`};
 const oldSmartAdd=openSmartAdd;
 openSmartAdd=function(which){oldSmartAdd(which);$('uPhotoDetails').open=true};

diff --git a/tests/test_upgrade_package.py b/tests/test_upgrade_package.py
@@ -5,7 +5,7 @@ import zipfile
 import sys
 
 ROOT=Path(__file__).resolve().parents[1]
-with zipfile.ZipFile(Path(sys.argv[1]) if len(sys.argv)>1 else ROOT/'Beanster-Sips-V18.3-unsigned.apk') as z:
+with zipfile.ZipFile(Path(sys.argv[1]) if len(sys.argv)>1 else ROOT/'Beanster-Sips-V18.3.1-unsigned.apk') as z:
     assert z.testzip() is None
     names=set(z.namelist())
     for name in ['app_v5.js','ui_upgrade.js','ui_upgrade.css','ocr_reader.js','motion.js','data_integrity.js','navigation.js','companion.js','local_vision.js','dashboard.js']:
@@ -35,6 +35,6 @@ with zipfile.ZipFile(Path(sys.argv[1]) if len(sys.argv)>1 else ROOT/'Beanster-Si
     with zipfile.ZipFile(ROOT/'vendor/vision/tensorflow-lite-2.16.1.aar') as aar:
         assert z.read('lib/arm64-v8a/libtensorflowlite_jni.so')==aar.read('jni/arm64-v8a/libtensorflowlite_jni.so')
     binary_manifest=z.read('AndroidManifest.xml')
-    assert b'com.beanstersips.v11' in binary_manifest and b'18.3' in binary_manifest
+    assert b'com.beanstersips.v11' in binary_manifest and b'18.3.1' in binary_manifest
     assert z.read('classes2.dex')==(ROOT/'native-build/classes.dex').read_bytes()
     print(f'PASS: APK entrypoint, {len(manifest["assets"])} PNG assets, animation assets, native OCR and package identity.')

diff --git a/build_v5.py b/build_v5.py
@@ -2,8 +2,8 @@ from pathlib import Path
 import importlib.util, struct, zipfile, subprocess, shutil, hashlib, argparse
 
 OUT=Path(__file__).resolve().parent
-APP_VERSION='18.3'
-VERSION_CODE=44
+APP_VERSION='18.3.1'
+VERSION_CODE=45
[1 lines of base64/hex data omitted]
 spec=importlib.util.spec_from_file_location('base_v5',OUT/'base_v5.py')
 base=importlib.util.module_from_spec(spec); spec.loader.exec_module(base)

diff --git a/README_V18.3.1.md b/README_V18.3.1.md
@@ -1,0 +1,11 @@
+# Beanster Sips V18.3.1
+
+咖啡杯仪表盘按参考图更新为圆角棕色杯框、奶油色杯体、渐变咖啡液面与白色投影数字。液面随当日咖啡因占上限的比例变化，灌注时显示向上浮动的环形气泡。
+
+在首页「自定义仪表盘」选择「经典咖啡杯」。进入播放一次，点击重播；和仓鼠表情共用单动画播放限制，并尊重系统减少动态效果设置。
+
+验证：V18.3 的 7 组界面与识别流程回归通过，APK 资源一致性检查、原生 OCR / 视觉 / 返回桥接检查通过。使用原证书签名，可覆盖安装。此次未在实体 Android 手机上运行。
+
[1 lines of base64/hex data omitted]
+
+证书 SHA-256：`84:D4:A0:DD:47:06:4B:81:94:44:13:1B:F3:44:D2:D5:C8:B6:E7:91:A2:26:52:DE:59:3C:E4:74:49:7A:70:18`
